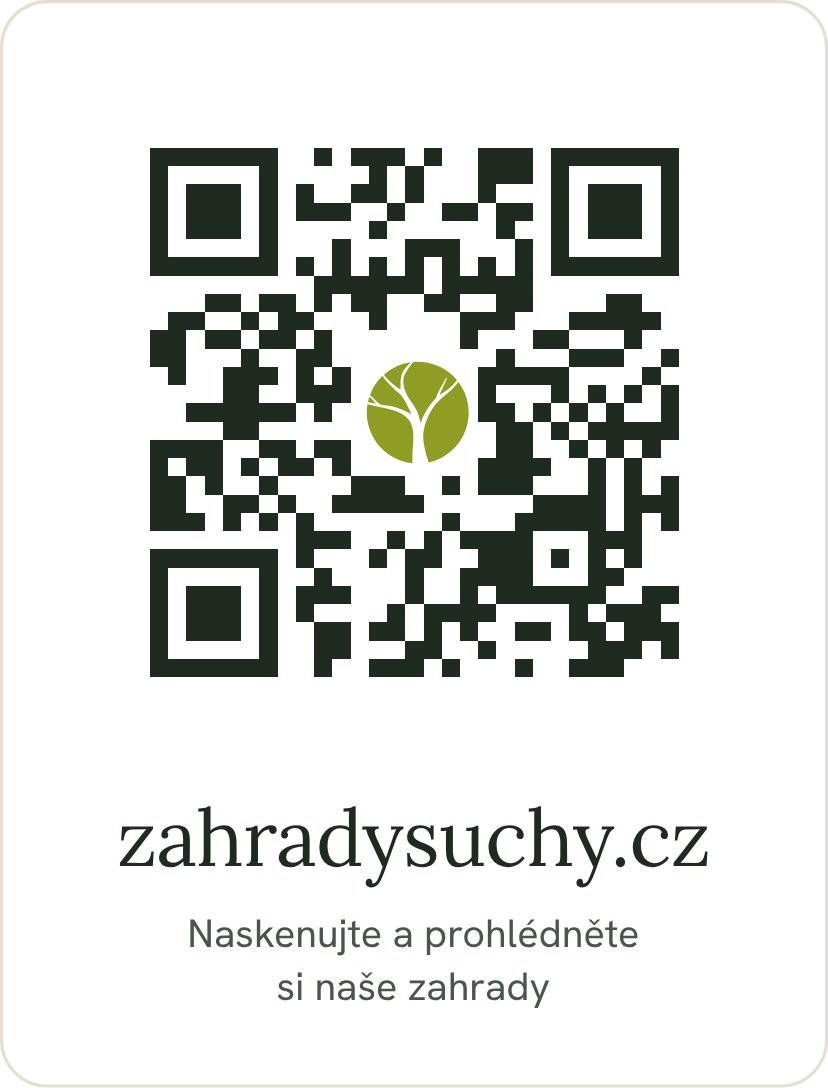
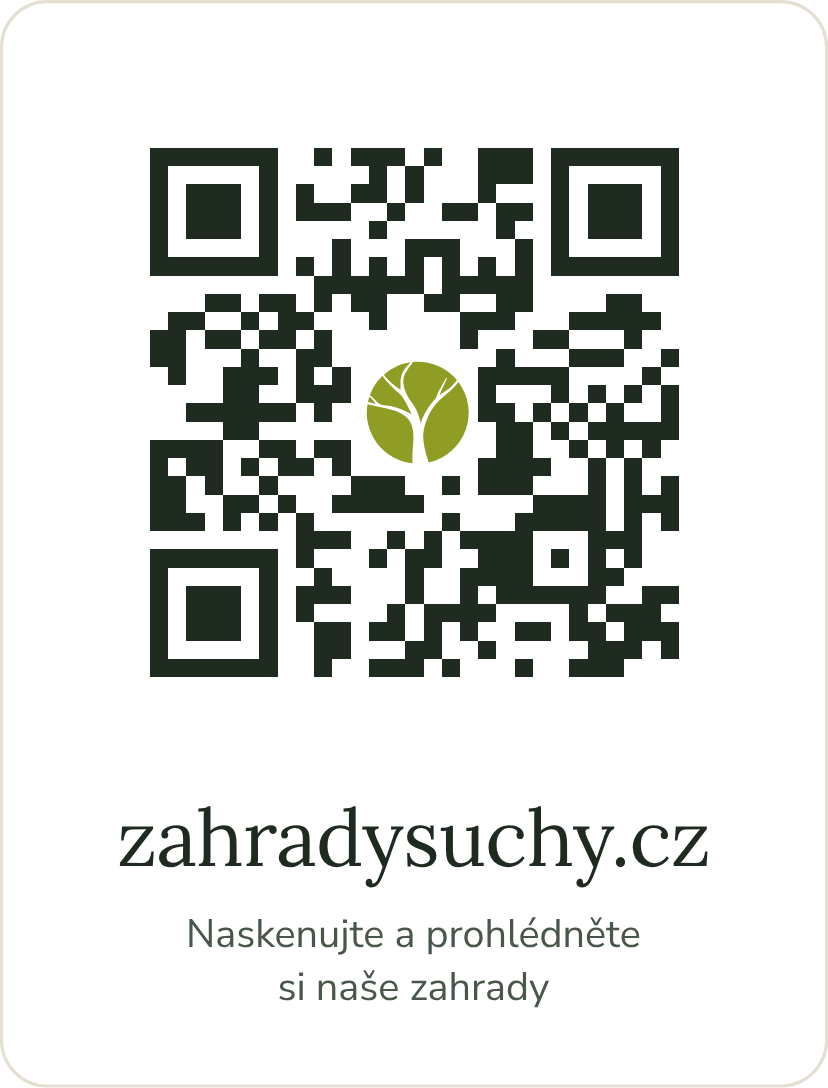
docs: README ke kitu, QR štítek v písmu webu (Nunito Sans)
- README: kit taste-skill (co se neupravuje, kde je vlastní CSS, momenty,
  hlavní akce), nové soubory s daty (fotky.ts, kategorie galerie),
  formulář bez ukládání v prohlížeči.
- QR štítek přegenerovaný v písmu webu: Nunito Sans místo Hanken Grotesk
  (@fontsource/nunito-sans). Samotný QR kód se nemění; všech 12 kontrol
  čtení prošlo.

Claude-Session: https://claude.ai/code/session_01Gw9tZozzxWwYKumVy5TfGR

Changed region(s): [[0.2114, 0.8438, 0.785, 0.9375], [0.6039, 0.9062, 0.6643, 0.9375], [0.3321, 0.9062, 0.3623, 0.9375]]

diff --git a/README.md b/README.md
@@ -3,8 +3,9 @@
 Web zahradnické firmy **Zahrady Suchý** — návrhy, realizace a údržba
 zahrad v Českých Budějovicích a po celém Jihočeském kraji.
 
-**Stack:** Next.js 15 (App Router, statický export) · Tailwind CSS 4 ·
-TypeScript · sharp (fotky) · GitHub Actions → GitHub Pages
+**Stack:** Next.js 15 (App Router, statický export) · TypeScript ·
+designový kit [taste-skill](https://github.com/leonxlnx/taste-skill) 2.5.1 (CSS a JS
+v `public/assets/`) · sharp (fotky) · GitHub Actions → GitHub Pages
 
 ---
 
@@ -15,10 +16,11 @@ Nejčastější věci, které budete chtít změnit — vždy jeden soubor:
 | Co změnit | Kde |
 | --- | --- |
 | **Telefon, e-mail, adresa, IČO** | `src/config.ts` — objekt `SITE` |
-| **Texty služeb** (karty na úvodu) | `src/data/sluzby.ts` |
-| **Fotky v galerii + popisky** | `src/data/galerie.ts` — každá fotka je blok `{ foto, alt, kategorie, popisek }` |
-| **Proměny před/po** | `src/data/galerie.ts` — pole `PROMENY` |
-| **Časté otázky** | `src/data/faq.ts` |
+| **Texty služeb** (řádky na úvodu) | `src/data/sluzby.ts` |
+| **Fotky v galerii** | `src/data/galerie.ts` — jména fotek po kategoriích (plné řady: 6, 6, 4) |
+| **Popis fotky** (alt text) | `src/data/fotky.ts` — jeden řádek na fotku, co na ní opravdu je |
+| **Příběh svahu** (galerie) | `src/data/galerie.ts` — pole `SVAH` |
+| **Časté otázky** | `src/data/faq.ts` — odpovědi jsou na webu vždy otevřené |
 | **Delší texty stránek** | `app/<stránka>/page.tsx` |
 
 Po úpravě: commit + push do `main` → web se sám přebuilduje a nasadí
@@ -32,8 +34,8 @@ Po úpravě: commit + push do `main` → web se sám přebuilduje a nasadí
    3000 px, **odstraní všechna metadata včetně GPS polohy zahrady klienta**
    a uloží je do `photos-src/` pod webovým názvem bez diakritiky.
 3. Spusťte `npm run photos` — vygeneruje zmenšené WebP verze pro web.
-4. Přidejte záznam do `src/data/galerie.ts` s krátkým popisem (`alt`)
-   toho, co na fotce opravdu je.
+4. Přidejte jméno fotky do kategorie v `src/data/galerie.ts` a jeden řádek
+   s popisem (alt) do `src/data/fotky.ts` — bez popisu build spadne.
 
 **Proč přes import:** repozitář je veřejný, takže originál s GPS by si kdokoli
 mohl stáhnout z GitHubu a zjistit adresu klienta. Build to hlídá — fotka
@@ -107,17 +109,34 @@ Hotové soubory a pravidla pro tiskárnu jsou ve složce
 
 - Web nepoužívá cookies, analytiku ani externí služby — fonty i skripty
   se servírují z vlastní domény, žádná cookie lišta není potřeba.
-- Poptávkový formulář jen připraví e-mail v poštovní aplikaci
-  návštěvníka (`mailto:`) — na serveru se nic neukládá; rozepsaná
-  poptávka zůstává jen v prohlížeči návštěvníka (localStorage).
+- Poptávkový formulář otevře poštovní aplikaci návštěvníka (`mailto:`)
+  s vyplněnými poli — nic se neukládá na serveru ani v prohlížeči. Když se
+  pošta neotevře, tlačítko „Zkopírovat text poptávky" dá text do schránky.
 - Fotky se při buildu přeukládají a **EXIF (včetně GPS souřadnic zahrad
   klientů a data pořízení) se zahazuje**.
+
+## Vzhled: kit taste-skill
+
+Rozvržení, typografie a pohyb stojí na kitu
+[taste-skill](https://github.com/leonxlnx/taste-skill) 2.5.1 (licence MIT):
+
+- **`public/assets/` se NEUPRAVUJE** — soubory kitu jsou bajt po bajtu zkopírované
+  (viz `public/assets/README.md`). Vlastní vzhled patří do `app/globals.css`.
+- Každá sekce je přesně jedna (nebo dvě) obrazovky; sousední sekce se liší rozvržením.
+- Písma Lora (nadpisy) a Nunito Sans (text), barvy ze Šimonova loga — tokeny `--p-*`
+  v `app/globals.css`.
+- Na každé stránce jeden „moment" při posouvání: úvod — proměna zahrady (kapitoly)
+  a vyvolání fotky, návrh — zvýrazněný výrok, realizace — kroky se střídající fotkou,
+  údržba — vyvolání fotky, galerie — proměna svahu, kontakt — Šimonova slova.
+  Kdo má v systému omezené animace, vidí vše hned v klidu.
+- Hlavní akce je všude stejnými slovy: **Domluvit schůzku** (`AKCE` v `src/components/Site.tsx`).
 
 ## Struktura
 
 ```
-app/                  stránky (App Router) + globals.css
-src/components/       Header, Footer, galerie, formulář, před/po…
+app/                  stránky (App Router) + globals.css (vlastní CSS nad kitem)
+public/assets/        kit taste-skill — NEUPRAVOVAT
+src/components/       Site (lišta, závěr, patička), hero, galerie, FAQ…
 src/data/             VŠECHNY editovatelné texty a seznamy fotek
 src/config.ts         kontakty, adresa, doména
 photos-src/           fotky pro web, bez metadat (zdroj pro WebP verze)
